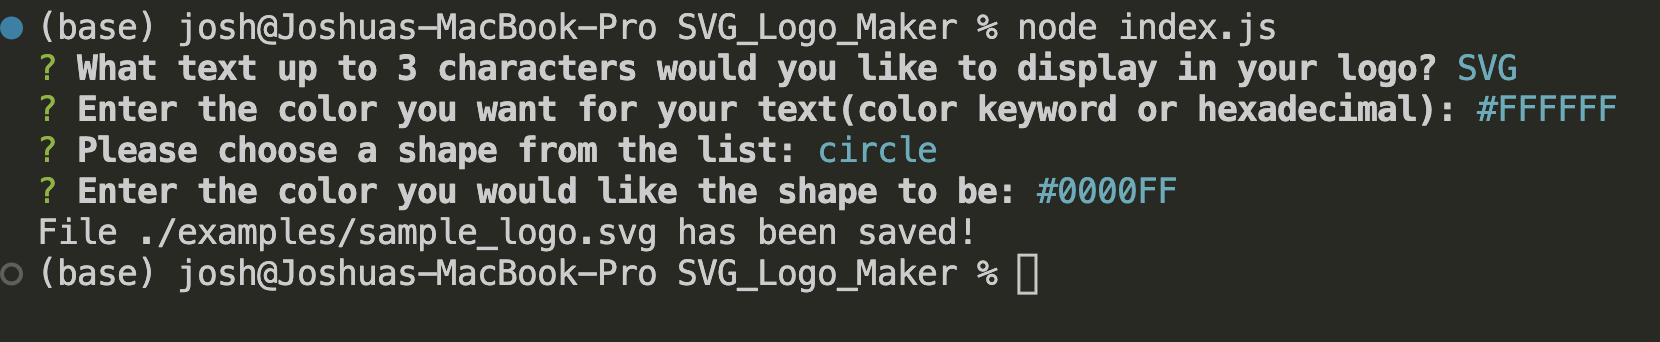
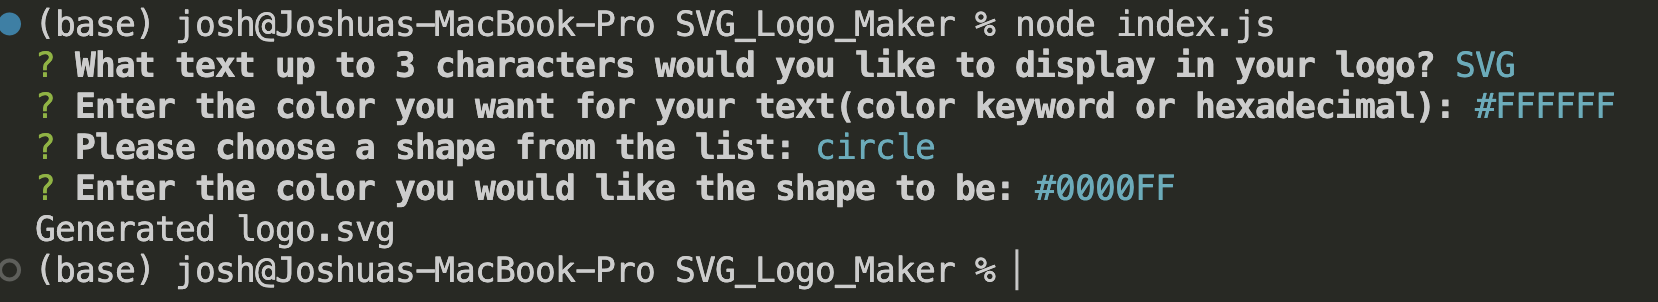
changed wizard end message

Changed region(s): [[0.0, 0.0298, 0.9843, 0.9536]]

diff --git a/lib/writeToFile.js b/lib/writeToFile.js
@@ -7,7 +7,7 @@ const fs = require("fs");
 // TODO: Create a function to write README file
 function writeToFile(fileName, answers) {
   fs.writeFile(fileName, answers, (err) => {
-    err ? console.error(err) : console.log(`File ${fileName} has been saved!`);
+    err ? console.error(err) : console.log(`Generated logo.svg`);
   });
 }
 
